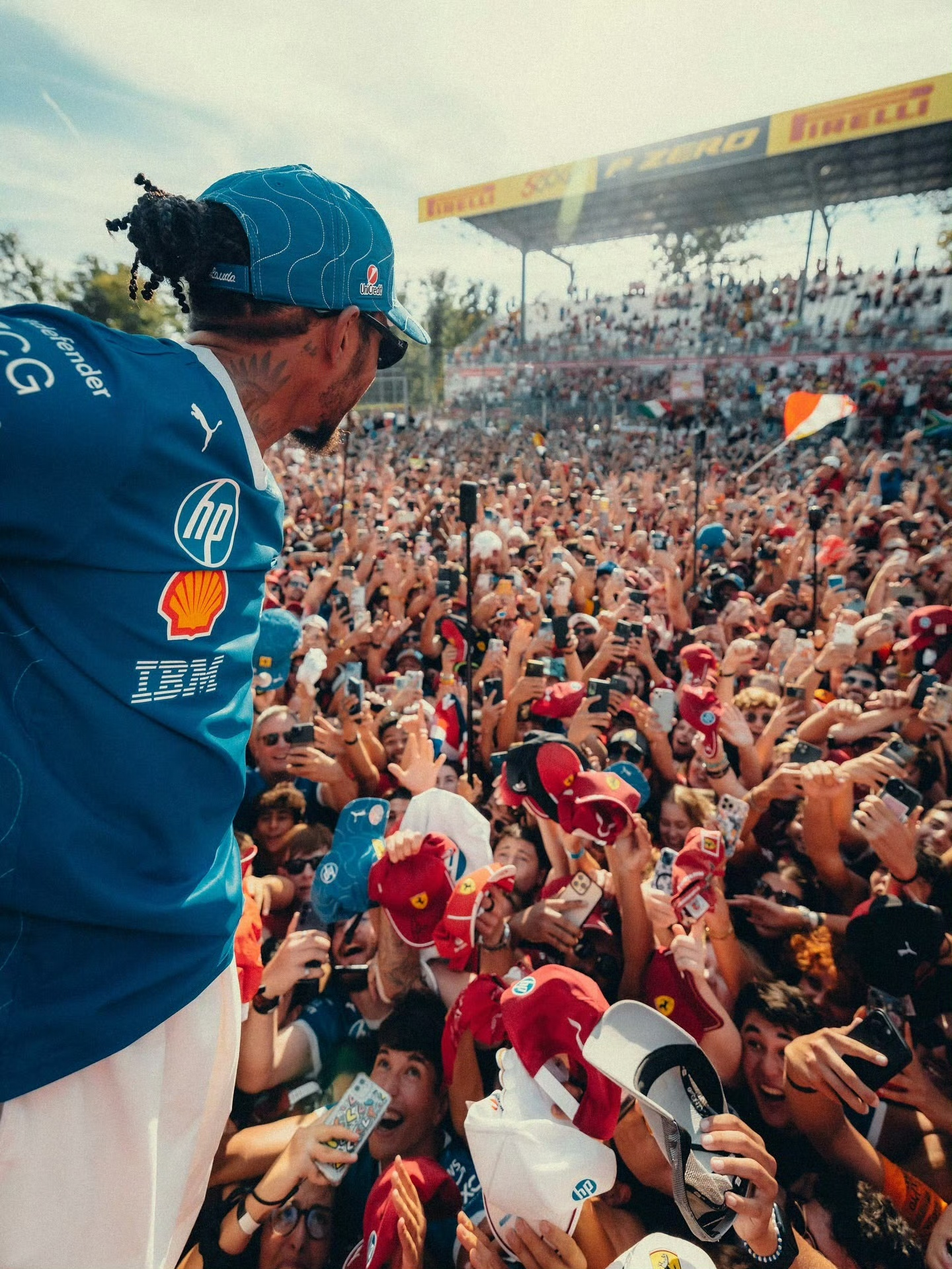
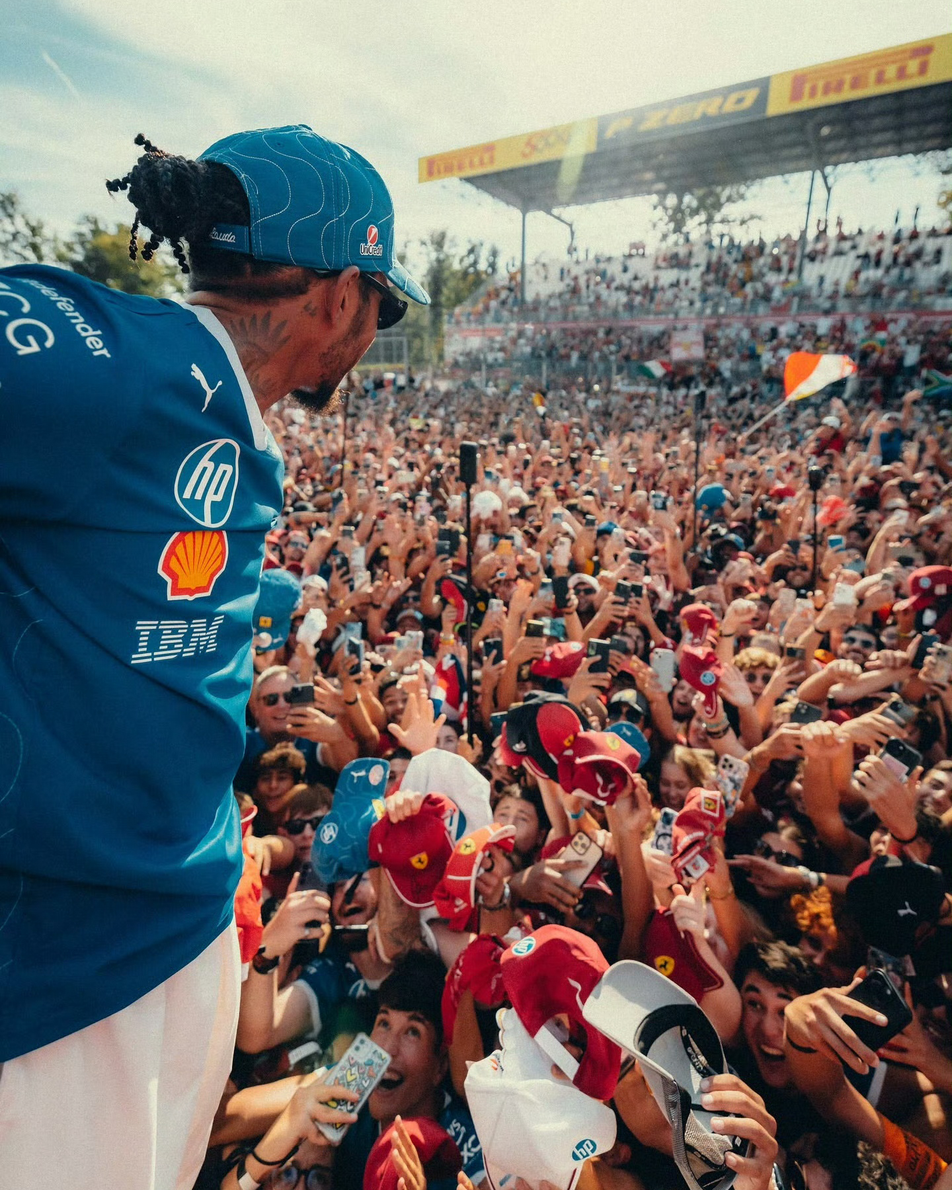
feat(interests): 更新F1图片展示格式并添加新图片
将原有的简单图片链接表格升级为带有标题说明的figure元素，增强可读性与语义化。
同时新增多张F1赛事相关图片，丰富页面内容。

diff --git a/_pages/interests.md b/_pages/interests.md
@@ -418,8 +418,54 @@ Still We Rise.
 
 <table style="border: none; width: 100%;">
 <tr style="border: none;">
-<td style="border: none; width: 65%;"><a href="/images/interests/formula1/25Shanghai-Fri.jpg"><img src='/images/interests/formula1/25Shanghai-Fri.jpg' style="width: 100%; object-fit: cover;"></a></td>
-<td style="border: none; width: 35%;"><a href="/images/interests/formula1/2025Shanghai-Sat.jpg"><img src='/images/interests/formula1/2025Shanghai-Sat.jpg' style="width: 100%; object-fit: cover;"></a></td>
+<td style="border: none; width: 66%;">
+  <figure style="margin: 0;">
+    <a href="/images/interests/formula1/25Shanghai-Fri.jpg">
+      <img src='/images/interests/formula1/25Shanghai-Fri.jpg' style="width: 100%; object-fit: cover;">
+    </a>
+    <figcaption style="text-align: center; font-size: 1.0em; color: #666; padding: 5px 0;">Shanghai International Circuit, Shanghai, Mar. 21, 2025</figcaption>
+  </figure>
+</td>
+<td style="border: none; width: 34%;">
+  <figure style="margin: 0;">
+    <a href="/images/interests/formula1/2025Shanghai-Sat.jpg">
+      <img src='/images/interests/formula1/2025Shanghai-Sat.jpg' style="width: 100%; object-fit: cover;">
+    </a>
+    <figcaption style="text-align: center; font-size: 1.0em; color: #666; padding: 5px 0;">Shanghai International Circuit, Shanghai, Mar. 22, 2025</figcaption>
+  </figure>
+</td>
+</tr>
+</table>
+
+<table style="border: none; width: 100%;">
+<tr style="border: none;">
+<td style="border: none; width: 25%;"><a href="/images/interests/formula1/13w04.jpg"><img src='/images/interests/formula1/13w04.jpg' style="width: 100%; object-fit: cover;"></a></td>
+<td style="border: none; width: 25%;"><a href="/images/interests/formula1/14Abu.jpg"><img src='/images/interests/formula1/14Abu.jpg' style="width: 100%; object-fit: cover;"></a></td>
+<td style="border: none; width: 25%;"><a href="/images/interests/formula1/17forget.jpg"><img src='/images/interests/formula1/17forget.jpg' style="width: 100%; object-fit: cover;"></a></td>
+<td style="border: none; width: 25%;"><a href="/images/interests/formula1/19Monaco.jpg"><img src='/images/interests/formula1/19Monaco.jpg' style="width: 100%; object-fit: cover;"></a></td>
+</tr>
+</table>
+
+<table style="border: none; width: 100%;">
+<tr style="border: none;">
+<td style="border: none; width: 50%;"><a href="/images/interests/formula1/20Imolalewis.jpg"><img src='/images/interests/formula1/20Imolalewis.jpg' style="width: 100%; object-fit: cover;"></a></td>
+<td style="border: none; width: 50%;"><a href="/images/interests/formula1/20Imolaw11.jpg"><img src='/images/interests/formula1/20Imolaw11.jpg' style="width: 100%; object-fit: cover;"></a></td>
+</tr>
+</table>
+
+<table style="border: none; width: 100%;">
+<tr style="border: none;">
+<td style="border: none; width: 50%;"><a href="/images/interests/formula1/20Istanbullewis.jpg"><img src='/images/interests/formula1/20Istanbullewis.jpg' style="width: 100%; object-fit: cover;"></a></td>
+<td style="border: none; width: 50%;"><a href="/images/interests/formula1/20Istanbulw11.jpg"><img src='/images/interests/formula1/20Istanbulw11.jpg' style="width: 100%; object-fit: cover;"></a></td>
+</tr>
+</table>
+
+<table style="border: none; width: 100%;">
+<tr style="border: none;">
+<td style="border: none; width: 25%;"><a href="/images/interests/formula1/20Spa.jpg"><img src='/images/interests/formula1/20Spa.jpg' style="width: 100%; object-fit: cover;"></a></td>
+<td style="border: none; width: 25%;"><a href="/images/interests/formula1/24Abu.jpg"><img src='/images/interests/formula1/24Abu.jpg' style="width: 100%; object-fit: cover;"></a></td>
+<td style="border: none; width: 25%;"><a href="/images/interests/formula1/2024Sliverstone.jpg"><img src='/images/interests/formula1/2024Sliverstone.jpg' style="width: 100%; object-fit: cover;"></a></td>
+<td style="border: none; width: 25%;"><a href="/images/interests/formula1/2025Monza.jpg"><img src='/images/interests/formula1/2025Monza.jpg' style="width: 100%; object-fit: cover;"></a></td>
 </tr>
 </table>
 
